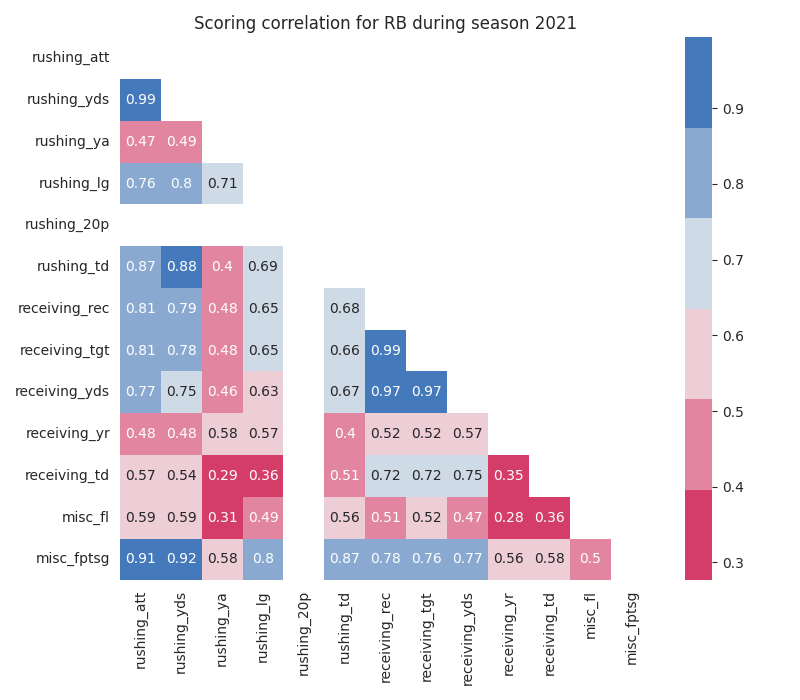
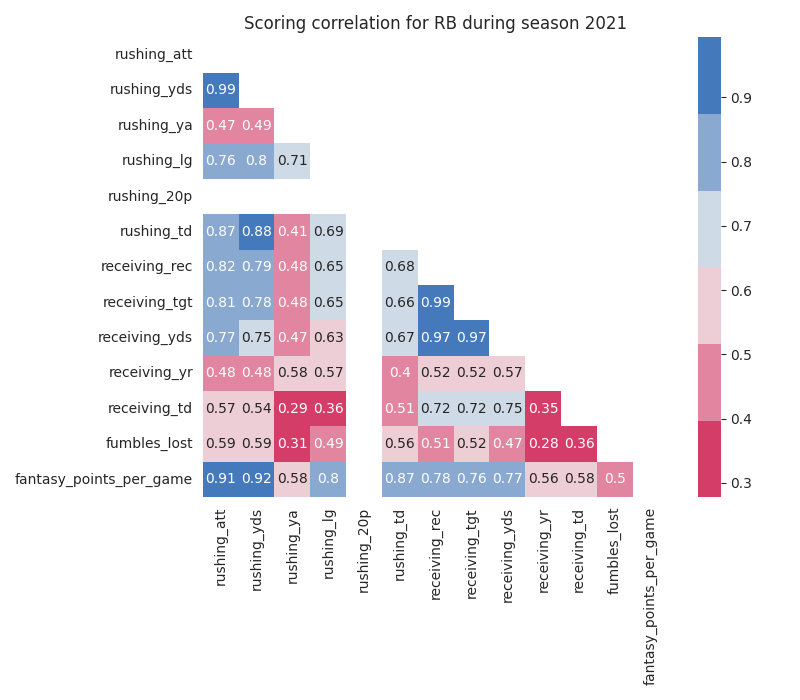
Fix scoring correlation with data loading.

diff --git a/tools/scoring_correlation.py b/tools/scoring_correlation.py
@@ -5,31 +5,30 @@ given year.
 """
 import matplotlib.pyplot as plt
 import numpy as np
-import pandas as pd
 import seaborn as sns
 
-import utils.fantasy_pros as fp
+import src.loader.stats.yearly as stats
+
 
 sns.set_style("whitegrid")
 
-POSITION = "K"
-YEAR = 2021
 
 if __name__ == "__main__":
-    # get yearly_stats raw
-    df = pd.read_csv("../raw/yearly_stats/{pos}/{pos}_{year}.csv".format(pos=POSITION, year=YEAR))
-    df = df.dropna()
+    # position and year
+    positions = ["DST", "K", "QB", "RB", "TE", "WR"]
+    year = 2021
 
-    # clean raw
-    df = fp.clean_stats(df, POSITION)
+    for position in positions:
+        # get yearly_stats raw
+        df = stats.get_stats_yearly(year, position)
 
-    # drop unnecessary columns
-    df.drop(["rank", "player", "team", "games", "fantasy_points", "rost"], axis=1, inplace=True)
+        # drop unnecessary columns
+        df.drop(["rank", "player", "team", "games", "fantasy_points", "rost", "year"], axis=1, inplace=True)
 
-    # plot the correlation heatmap
-    plt.figure(figsize=(8, 7))
-    plt.title("Scoring correlation for {pos} during season {year}".format(pos=POSITION, year=YEAR))
-    sns.heatmap(df.corr(), annot=True, cmap=sns.diverging_palette(0, 250), mask=np.triu(df.corr()))
-    plt.tight_layout()
-    plt.savefig("../reports/scoring_correlation/correlation_{pos}_{year}.png".format(pos=POSITION, year=YEAR))
-    plt.show()
+        # plot the correlation heatmap
+        plt.figure(figsize=(8, 7))
+        plt.title("Scoring correlation for {pos} during season {year}".format(pos=position, year=year))
+        sns.heatmap(df.corr(), annot=True, cmap=sns.diverging_palette(0, 250), mask=np.triu(df.corr()))
+        plt.tight_layout()
+        plt.savefig("../reports/scoring_correlation/correlation_{pos}_{year}.png".format(pos=position, year=year))
+        plt.show()
